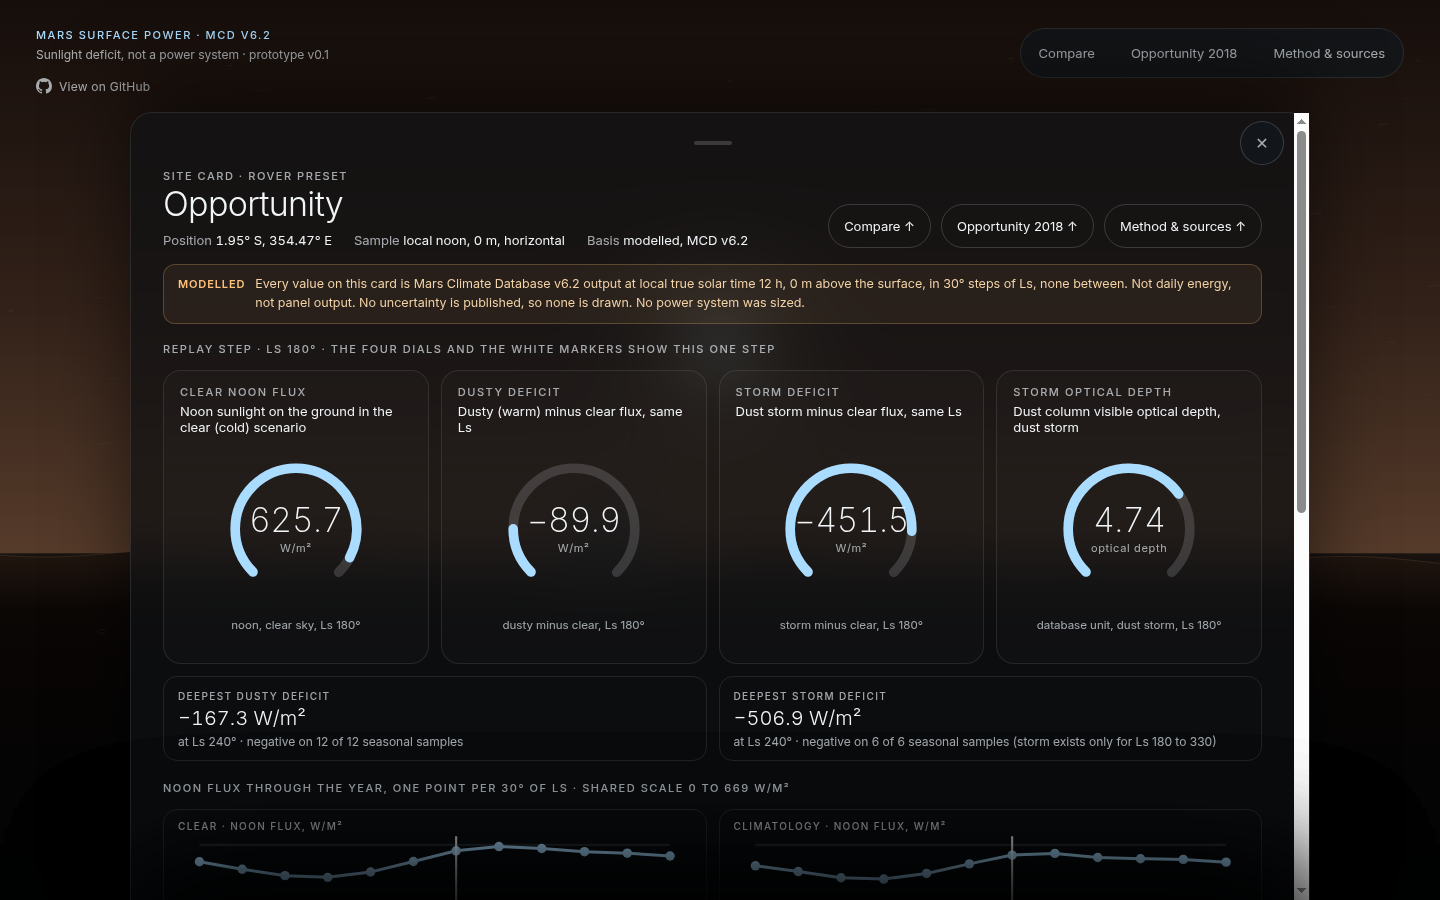
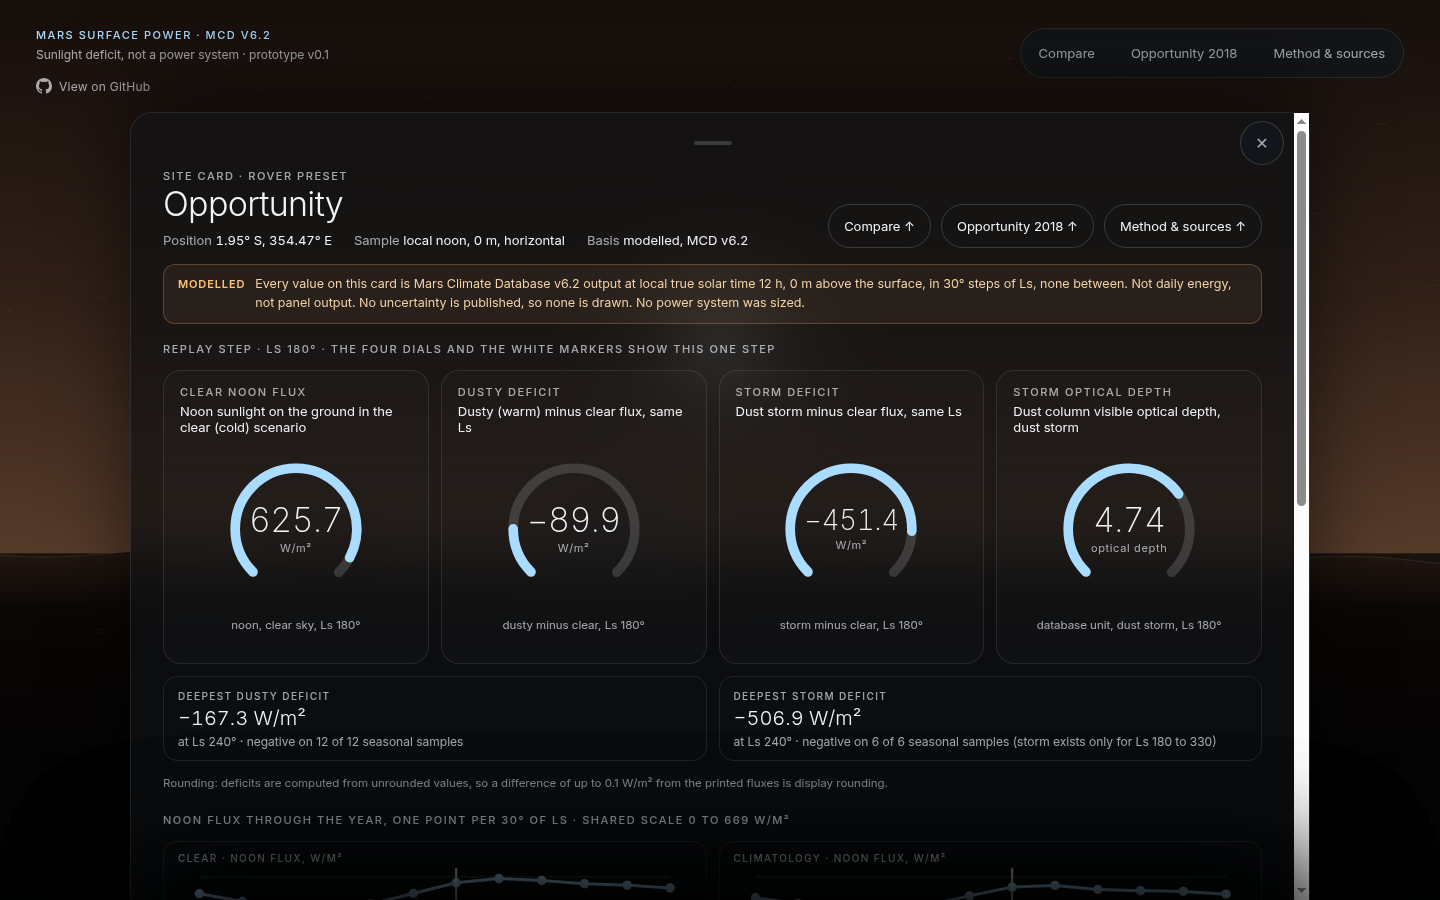
mars-surface-power web: show the stored deficit rounded to one decimal everywhere, with a rounding note
The page had shown each deficit as displayed dust flux minus displayed clear flux, so shown deficits drifted from the frozen stored value (Opportunity Ls 180 storm showed -451.5; stored -451.4248 rounds to -451.4). Every deficit (hero, card dials, deepest-deficit boxes, aria labels, compare ranges, ring fractions and the shared scale) now uses the stored value rounded once to one decimal; fluxes stay at one decimal from stored values. A short note in the card, compare and method layers explains that deficits are computed from unrounded values, so up to 0.1 W/m2 from the printed fluxes is display rounding. Dial numerals of six or more characters step down so -451.4 clears the ring stroke at every width.

Tests: test_values and test_behaviour compare all 108 displayed deficits with data/mars.json rounded by the same rule, fail if the page recomputes from displayed fluxes (altered stored deficits must show), check the note, and check dial text clearance at eight widths. Screenshots regenerated.

diff --git a/mars-surface-power/web/index.html b/mars-surface-power/web/index.html
@@ -137,6 +137,8 @@ table.sc tbody tr{cursor:default}
 @media (max-width:900px) and (max-height:700px){.snote{display:none}.dock{gap:0 10px}.brand .small{display:none}}
 @media (min-width:901px) and (max-height:860px){.mapcap{display:none}}
 @media (min-width:901px) and (max-height:760px){.live .n{font-size:28px}.live{gap:6px 14px}}
+/* values of six or more characters (e.g. \u2212451.4) step down so they keep clear of the ring stroke */
+.ring .val .n.long{font-size:28px}
 </style>
 </head>
 <body>
@@ -244,7 +246,7 @@ table.sc tbody tr{cursor:default}
     <div class="box"><p>The deficit is the stored dusty flux minus the stored cold (clear, low-dust) flux at the same site and Ls: the dusty (warm) scenario and the dust-storm scenario against the cold baseline. Climatology is stored and shown but is not turned into a deficit. The dust storm is the interface's "average" scenario, not a specific year, and exists only for Ls 180 to 330; earlier requests are rejected by the interface, so those samples are absent, never zero. How long a deficit lasts is a count of seasonal samples, not days. No uncertainty is published, so none is drawn. The project says: <b id="nopower"></b></p></div>
 
     <h3>The method text from the project</h3>
-    <div class="box"><p class="mt" id="method-text"></p></div>
+    <div class="box"><p class="mt" id="method-text"></p><p class="small" id="round-note" data-round-note style="margin-top:10px"></p></div>
     <details><summary>The project's own sentences (<span id="nsent">0</span>)</summary><div id="sentences"></div></details>
     <details><summary>Data files (<span id="nman">0</span>, data/MANIFEST.tsv)</summary><ul class="cites" id="manifest"></ul></details>
 
@@ -292,12 +294,13 @@ var DEF={};(D.deficits||[]).forEach(function(d){DEF[d.site+'|'+d.scenario+'|'+d.
 function smp(sid,scn,i){var s=SER[sid]&&SER[sid][scn];return s&&s[i]?s[i]:null}
 function flux(sid,scn,i){var r=smp(sid,scn,i);return r&&ok(r.flux)?r.flux:null}
 function dod(sid,scn,i){var r=smp(sid,scn,i);return r&&ok(r.dod)?r.dod:null}
-/* Display rule: fluxes are shown to one decimal. A shown deficit is the shown dust flux minus the shown clear flux (whole tenths), so the arithmetic on screen is always exact; it is within 0.1 W/m2 of the stored subtraction. */
-function tenth(v){return Math.round(v*10)}
-function deficit(sid,scn,i){var d=DEF[sid+'|'+scn+'|'+LSV[i]],a=flux(sid,scn,i),c=flux(sid,'cold',i);return d&&ok(d.value)&&a!=null&&c!=null?(tenth(a)-tenth(c))/10:null}
+/* Display rule: the STORED deficit (unrounded dusty minus cold, from the frozen export) is rounded once to one decimal with the same rule as fnum, and every place uses that value. Never recompute from the displayed fluxes: a printed deficit can differ by up to 0.1 W/m2 from printed flux minus printed flux. */
+var ROUND_NOTE='Rounding: deficits are computed from unrounded values, so a difference of up to 0.1 W/m\u00b2 from the printed fluxes is display rounding.';
+function r1(v){var t=Math.abs(v).toFixed(1);return (v<0?-1:1)*+t}
+function deficit(sid,scn,i){var d=DEF[sid+'|'+scn+'|'+LSV[i]];return d&&ok(d.value)?r1(d.value):null}
 var FMAX=1,DMAX=1,DFMAX=1;
 Object.keys(SER).forEach(function(k){Object.keys(SER[k]).forEach(function(s){SER[k][s].forEach(function(r){if(ok(r.flux))FMAX=Math.max(FMAX,r.flux);if(ok(r.dod))DMAX=Math.max(DMAX,r.dod)})})});
-(D.deficits||[]).forEach(function(d){if(ok(d.value))DFMAX=Math.max(DFMAX,Math.abs(d.value))});
+(D.deficits||[]).forEach(function(d){if(ok(d.value))DFMAX=Math.max(DFMAX,Math.abs(r1(d.value)))});
 
 /* ---------------- state: one snapped season step feeds every readout, the scene and the rings ---------------- */
 var S={site:'curiosity',scn:'warm',step:0,base:0};
@@ -466,6 +469,7 @@ function renderCard(sid){
   h+='<div class="extras" style="grid-template-columns:repeat(2,1fr)">'
    +'<div class="extra"><span class="label">Deepest dusty deficit</span><b>'+(w.deep?fnum(w.deep.v,1)+' W/m\u00b2':NA)+'</b><span>'+(w.deep?'at Ls '+w.deep.ls+'\u00b0 \u00b7 negative on '+w.below+' of '+w.n+' seasonal samples':'')+'</span></div>'
    +'<div class="extra"><span class="label">Deepest storm deficit</span><b>'+(m.deep?fnum(m.deep.v,1)+' W/m\u00b2':NA)+'</b><span>'+(m.deep?'at Ls '+m.deep.ls+'\u00b0 \u00b7 negative on '+m.below+' of '+m.n+' seasonal samples (storm exists only for Ls 180 to 330)':'')+'</span></div></div>';
+  h+='<p class="disclaim" data-round-note>'+ROUND_NOTE+'</p>';
   h+='<div class="label" style="margin-top:20px">Noon flux through the year, one point per 30\u00b0 of Ls \u00b7 shared scale 0 to '+plain(fnum(FMAX))+' W/m\u00b2</div><div class="sparks">'+['cold','climatology','warm','storm'].map(function(k){return sparkHTML(k,sid)}).join('')+'</div>';
   h+='<p class="disclaim">The line joins the stored samples; there is no data between them. The storm has no samples before Ls 180. The white marker is the replay step.</p>';
   h+='<div class="box" style="margin-top:16px"><div class="label">Source files at this season</div><ul class="files" id="card-files"></ul><p class="small" style="margin-top:8px">Coordinate: '+esc(s.source)+' \u00b7 <code class="h">'+esc(s.source_file)+'</code> \u00b7 sha256 <code class="h">'+esc(s.source_sha256)+'</code></p></div>';
@@ -477,7 +481,7 @@ function renderCard(sid){
   $$('#card [data-open]').forEach(function(b){b.onclick=function(){openLayer(b.dataset.open)}});
 }
 function setDial(key,html,unit,frac,defTxt,aria){var d=$('#card .dial[data-d="'+key+'"]');if(!d)return;var n=$('.n',d),u=$('.u',d),f=$('.fill',d);
-  if(n._h!==html){n._h=html;n.innerHTML=html}u.textContent=frac==null?'':unit;f.setAttribute('stroke-dasharray',(Math.max(0,Math.min(1,frac||0))*179.07).toFixed(2)+' 300');f.style.display=frac==null?'none':'';
+  if(n._h!==html){n._h=html;n.innerHTML=html}n.classList.toggle('long',plain(html).length>=6);u.textContent=frac==null?'':unit;f.setAttribute('stroke-dasharray',(Math.max(0,Math.min(1,frac||0))*179.07).toFixed(2)+' 300');f.style.display=frac==null?'none':'';
   $('.def',d).textContent=defTxt||'';d.dataset.value=plain(html);d.setAttribute('role','group');d.setAttribute('aria-label',aria)}
 function setT2(id,txt){var e=$('#'+id);if(e&&e._h!==txt){e._h=txt;e.textContent=txt}}
 function cardRefresh(i){
@@ -533,7 +537,7 @@ function fillCompare(){
      +rb('Storm minus clear',storm,-axD,0,'W/m\u00b2',1,true,function(v){return neg(v)+' (Ls 180 to 330 only)'})
      +rb('Storm optical depth (database unit, own axis)',tau,0,Math.ceil(DMAX),'',2,false,function(v){return v.length+' samples'})
      +'<div style="margin-top:14px"><button class="btn" style="min-height:44px" data-site-open="'+esc(s.id)+'">Open site card</button></div></div>'});
-  $('#cmp').innerHTML=h;$$('#cmp [data-site-open]').forEach(function(b){b.onclick=function(){openSite(b.dataset.siteOpen)}});
+  h+='<p class="disclaim" data-round-note>'+ROUND_NOTE+'</p>';$('#cmp').innerHTML=h;$$('#cmp [data-site-open]').forEach(function(b){b.onclick=function(){openSite(b.dataset.siteOpen)}});
 }
 
 /* ---------------- Opportunity 2018: measured opacity and modelled optical depth, two separate axes ---------------- */
@@ -568,7 +572,7 @@ function fillOpp(){
 /* ---------------- method and sources ---------------- */
 function td(x){return '<td class="l">'+x+'</td>'}
 function fillMethod(){
-  $('#nopower').textContent=D.no_power||'';
+  $('#nopower').textContent=D.no_power||'';var rn=$('#round-note');if(rn)rn.textContent=ROUND_NOTE;
   $('#method-text').textContent=(D.method||'n/a').split('\n').filter(function(l){return !/^Plotted/.test(l)}).map(function(l){return /^Sites:/.test(l)&&SITES.length?'Sites: '+SITES.map(function(s){return s.name+' ('+latS(s.lat)+', '+lonS(s.lon)+')'}).join('; ')+'.':l}).join('\n')+'\n(The "Plotted" traces repeat every value with its source files; they are in data/mars.json.)';
   $('#tb-scn').innerHTML=SC.map(function(s){var a=s.ls_available||[];return '<tr>'+td(esc(s.label))+td(esc(s.interface_label))+td(esc(s.dust))+td(a.length+(a.length?' (Ls '+a[0]+' to '+a[a.length-1]+')':''))+'</tr>'}).join('')||'<tr><td class="l" colspan="4">'+NA+'</td></tr>';
   $('#tb-sites').innerHTML=SITES.map(function(s){return '<tr>'+td(esc(s.name))+td(latS(s.lat)+', '+lonS(s.lon))+td(esc(s.source))+td('<code class="h">'+esc(s.source_file)+'</code>')+'</tr>'}).join('')||'<tr><td class="l" colspan="4">'+NA+'</td></tr>';

diff --git a/mars-surface-power/web/test_values.js b/mars-surface-power/web/test_values.js
@@ -7,7 +7,8 @@ let n=0; const ok=(c,m)=>{n++;assert.ok(c,m);console.log('ok',m)};
 const MIN='\u2212', fmt=(v,d=0)=>(v<0&&+Math.abs(v).toFixed(d)!==0?MIN:'')+Math.abs(v).toFixed(d).replace(/\B(?=(\d{3})+(?!\d))/g,',');
 const def=(s,k,ls)=>M.deficits.find(d=>d.site===s&&d.scenario===k&&d.ls===ls);
 // display rule: fluxes to one decimal; shown deficit = shown dust flux minus shown clear flux (whole tenths)
-const t10=v=>Math.round(v*10), dsp=d=>{const s=M.series[d.site];return (t10(s[d.scenario].find(r=>r.ls===d.ls).flux)-t10(s.cold.find(r=>r.ls===d.ls).flux))/10};
+// displayed deficit = the STORED deficit (data/mars.json) rounded to 1 decimal with the same rule as fmt (toFixed on the magnitude); never flux minus flux
+const dsp=d=>(d.value<0?-1:1)*+Math.abs(d.value).toFixed(1), NOTE='Rounding: deficits are computed from unrounded values, so a difference of up to 0.1 W/m\u00b2 from the printed fluxes is display rounding.';
 async function fresh(b,url,ms){await b.goto('about:blank',100);await b.goto(url,ms||700);}
 (async()=>{
   // ---- the project's own numbers, from mars.json
@@ -48,6 +49,7 @@ async function fresh(b,url,ms){await b.goto('about:blank',100);await b.goto(url,
     ok(g.files.filter(f=>/^mcd62_/.test(f)).join()===wantFiles.join(),'  source files at this step: '+wantFiles.join(', '));
     ok(g.sv.length===4&&g.sv.every((t,k)=>(k===3&&!st)?/^n\/a/.test(t):t.startsWith(fmt(S[['cold','climatology','warm','storm'][k]][i].flux,1))),'  sparkline read-outs match the stored flux: '+g.sv.join(' | '));
   }
+  ok((await b.ev(`document.querySelector('#card [data-round-note]').textContent`))===NOTE,'site card carries the rounding note');
   // ---- compare layer: ranges equal the stored values, fixed order, nothing ranked
   await fresh(b,FILE+'#compare?paused',800);
   const cmp=await b.ev(`[...document.querySelectorAll('#cmp .box')].map(x=>({id:x.dataset.site,t:x.querySelector('h4').textContent,rng:[...x.querySelectorAll('.rng')].map(e=>e.textContent)}))`);
@@ -71,6 +73,7 @@ async function fresh(b,url,ms){await b.goto('about:blank',100);await b.goto(url,
   await fresh(b,FILE+'#method?paused',800);
   const mt=await b.ev(`document.querySelector('#method').innerText`);
   for(const s of ['No power system was sized.','climatology average solar scenario','cold scenario (low dust, minimum solar)','warm scenario (dusty, maximum solar)','dust storm average solar scenario','exploration-zone candidates','not a specific year','not days','No conversion factor was applied.','No uncertainty is published','not daily energy','Storm never faked before Ls 180','No ranking of sites','No combined score','No claim of safe or unsafe','Modelled','Illustrative','Measured'])ok(mt.toLowerCase().includes(s.toLowerCase()),'method layer states: '+s);
+  ok(mt.includes(NOTE),'method layer carries the rounding note');
   ok(await b.ev(`document.querySelectorAll('#manifest li').length`)===261&&await b.ev(`document.querySelector('#cites').children.length>=5`)&&await b.ev(`!!document.querySelector('#method a[href="https://github.com/sighmon/space"]')`),'method layer lists 261 manifest entries, citations and the GitHub link');
   // ---- exhaustive: all 108 deficits, every place a flux and a deficit are shown (hero read-outs, card dials, sparkline read-outs)
   const num=t=>+String(t).replace(/\u2212/g,'-').replace(/,/g,'').match(/^-?[0-9.]+/)[0];
@@ -87,13 +90,15 @@ async function fresh(b,url,ms){await b.goto('about:blank',100);await b.goto(url,
       const d=def(site,scn,i*30); if(!d)continue;
       const sc=scn==='warm'?card.warm:card.storm, spk=num(card.sv[scn==='warm'?2:3]);
       const cold=num(card.cold), hf=num(hero[scn].f), hd=num(hero[scn].df), hc=num(hero.cold.f);
-      const e1=Math.abs((spk-cold)-num(sc)), e2=Math.abs((hf-hc)-hd);
-      worst=Math.max(worst,Math.abs(num(sc)-d.value),Math.abs(hd-d.value));
-      ok(e1<1e-9&&e2<1e-9&&num(sc)===hd&&Math.abs(num(sc)-d.value)<0.1+1e-9&&(Math.abs(d.value)<0.1||Math.sign(num(sc))===Math.sign(d.value)),`${site}/${scn}/Ls ${i*30}: shown ${spk} - ${cold} = ${sc} (hero ${hf} - ${hc} = ${hd}); stored ${d.value.toFixed(3)}`);
+      const e1=Math.abs((spk-cold)-num(sc)), e2=Math.abs((hf-hc)-hd), want=dsp(d);
+      worst=Math.max(worst,e1,e2);
+      ok(num(sc)===want&&hd===want&&fmt(want,1)===sc&&(want===0||Math.sign(num(sc))===Math.sign(d.value))&&e1<0.1+1e-9&&e2<0.1+1e-9,`${site}/${scn}/Ls ${i*30}: shown deficit ${sc} (hero ${hd}) = stored ${d.value} rounded to ${fmt(want,1)}; printed fluxes ${spk} - ${cold} differ by ${e1.toFixed(1)}`);
       exh++;
     }
   }
-  ok(exh===108,'exhaustive check covered all 108 samples; largest gap to the stored deficit '+worst.toFixed(3)+' W/m2 (< 0.1)');
+  // known case from review: Opportunity Ls 180 storm stored -451.4248 shows -451.4, not -451.5
+  {const o=def('opportunity','storm',180); ok(Math.abs(o.value+451.4248)<1e-3&&fmt(dsp(o),1)===MIN+'451.4','Opportunity Ls 180 storm: stored '+o.value+' shows '+fmt(dsp(o),1)+' (not '+MIN+'451.5)');}
+  ok(exh===108,'exhaustive check covered all 108 samples; largest gap between the shown deficit and shown flux minus shown flux '+worst.toFixed(1)+' W/m2 (display rounding, <= 0.1)');
   // ---- coordinates: one formatter, N/S and E/W letters, never a signed number plus a letter
   const cf=(v,p,n)=>String(+Math.abs(v).toFixed(3))+'\u00b0 '+(v<0?n:p);
   await fresh(b,FILE+'#method?paused',800);
@@ -101,5 +106,14 @@ async function fresh(b,url,ms){await b.goto('about:blank',100);await b.goto(url,
   for(const x of M.sites){const w=cf(x.lat,'N','S')+', '+cf(x.lon,'E','W');
     ok(mt2.t.includes(x.name+' ('+w+')')&&mt2.rows.includes(w),`${x.name}: method note and table both say ${w}`);}
   ok(mt2.t.includes('Mesopotamia (35.352\u00b0 S, 94.02\u00b0 E)')&&!/-\d[\d.]* ?\u00b0? ?[NSEW]\b/.test(mt2.t)&&!/-\d/.test(mt2.rows.join()),'southern sites read "35.352\u00b0 S", never "-35.352 N"');
+  // ---- the widest deficit text (Opportunity Ls 180 storm, -451.4) keeps clear of the dial ring stroke at every width
+  for(const w of [320,360,390,414,600,768,1024,1440]){
+    await b.viewport(w,w<500?740:900);
+    await fresh(b,FILE+'#site/opportunity?ls=180&scenario=storm&paused',700);
+    const r=await b.ev(`[...document.querySelectorAll('#card .dial')].map(d=>{const g=d.querySelector('.ring').getBoundingClientRect(),n=d.querySelector('.n').getBoundingClientRect(),u=d.querySelector('.u').getBoundingClientRect(),cx=g.left+g.width/2,cy=g.top+g.height/2,inner=g.width*0.35;
+      const far=Math.max(...[n,u].flatMap(q=>[[q.left,q.top],[q.right,q.top],[q.left,q.bottom],[q.right,q.bottom]]).map(p=>Math.hypot(p[0]-cx,p[1]-cy)));return {k:d.dataset.d,v:d.dataset.value,far:far/inner,half:Math.max(cx-n.left,n.right-cx)/inner}})`);
+    ok(r.every(x=>x.far<=1.0&&x.half<=0.9),`${w}px: dial text stays inside the ring stroke (${r.map(x=>x.v+' '+x.half.toFixed(2)+'/'+x.far.toFixed(2)).join(', ')})`);
+  }
+  await b.viewport(1440,900);
   ok(errs.length===0,'no console errors'); b.close(); console.log('values ok',n,'checks'); process.exit(0);
 })().catch(e=>{console.error('FAIL',e.message);process.exit(1)});

diff --git a/mars-surface-power/web/test_behaviour.js b/mars-surface-power/web/test_behaviour.js
@@ -146,6 +146,36 @@ const key=async(b,k,code)=>{await b.send('Input.dispatchKeyEvent',{type:'keyDown
   await fresh(b,FILE+'?ls=240&scenario=storm&site=mesopotamia&paused',600);
   ok(await b.ev(`__mars.step`)===8&&await b.ev(`__mars.state.scn`)==='storm'&&await b.ev(`__mars.state.site`)==='mesopotamia'&&await b.ev(`document.querySelector('#play').getAttribute('aria-label')`)==='Play replay','?ls=240&scenario=storm&site=mesopotamia&paused in the query string works');
   await fresh(b,FILE+'#?ls=100&paused',600); ok(await b.ev(`__mars.step`)===3,'?ls=100 snaps to the nearest 30 degree step (Ls 90)');
+  // ---- deficits shown are the STORED deficits rounded to 1 decimal (same rule as the page), for all 108 samples
+  const RNOTE='Rounding: deficits are computed from unrounded values, so a difference of up to 0.1 W/m\u00b2 from the printed fluxes is display rounding.';
+  const rd1=v=>(v<0?-1:1)*+Math.abs(v).toFixed(1), ff1=v=>(v<0&&+Math.abs(v).toFixed(1)!==0?'\u2212':'')+Math.abs(v).toFixed(1);
+  let seen108=0;
+  for(const site of M.sites.map(x=>x.id)){
+    await fresh(b,FILE+`#?site=${site}&scenario=warm&ls=0&paused`,500);
+    for(let i=0;i<12;i++){
+      await b.ev(`(()=>{const s=document.querySelector('#scrub');s.value=${i};s.dispatchEvent(new Event('input',{bubbles:true}))})()`);
+      for(const scn of ['warm','storm']){
+        await b.ev(`(()=>{const e=document.querySelector('#scn [data-s="${scn}"]');if(e&&!e.disabled)e.click()})()`); await sleep(40);
+        const d=M.deficits.find(x=>x.site===site&&x.scenario===scn&&x.ls===i*30); if(!d)continue;
+        const g=await b.ev(`document.querySelector('#r-def').textContent`);
+        ok(g===ff1(rd1(d.value)),`hero ${site}/${scn}/Ls ${i*30}: shows ${g}, stored ${d.value} rounds to ${ff1(rd1(d.value))}`); seen108++;
+      }
+    }
+  }
+  ok(seen108===108,'hero deficit read-out checked against the stored value for all 108 samples');
+  // rounding note present in the card, compare and method layers
+  await fresh(b,FILE+'#site/opportunity?ls=180&scenario=storm&paused',800);
+  const cardTxt=await b.ev(`document.querySelector('#card').innerText`);
+  ok(await b.ev(`document.querySelector('#card [data-round-note]').textContent`)===RNOTE&&cardTxt.includes(RNOTE),'site card shows the rounding note');
+  const sd=await b.ev(`(()=>{const d=document.querySelector('#card .dial[data-d="storm"]');return {v:d.dataset.value,a:d.getAttribute('aria-label')}})()`);
+  ok(sd.v==='\u2212451.4'&&sd.a.includes('\u2212451.4')&&!/451\.5/.test(cardTxt+sd.a),'Opportunity Ls 180 storm card shows \u2212451.4 (stored \u2212451.4248), never \u2212451.5, in the dial and its aria label: '+sd.a);
+  await fresh(b,FILE+'#compare?paused',700); ok((await b.ev(`document.querySelector('#cmp [data-round-note]').textContent`))===RNOTE,'compare layer shows the rounding note');
+  await fresh(b,FILE+'#method?paused',700); ok((await b.ev(`document.querySelector('#method').innerText`)).includes(RNOTE),'method layer shows the rounding note');
+  // the page must not recompute: change every stored deficit to an arbitrary value, keep the fluxes; the page must show the changed stored values
+  await b.send('Page.addScriptToEvaluateOnNewDocument',{source:`(()=>{let v;Object.defineProperty(window,'MARS',{configurable:true,get(){return v},set(x){for(const d of x.deficits)d.value=-(100+d.ls/10+0.04)-(d.scenario==='storm'?0.4:0);v=x}})})()`});
+  await fresh(b,FILE+'#site/curiosity?ls=240&scenario=warm&paused',800);
+  const tam=await b.ev(`({hero:document.querySelector('#r-def').textContent,dial:document.querySelector('#card .dial[data-d="warm"]').dataset.value,st:document.querySelector('#card .dial[data-d="storm"]').dataset.value})`);
+  ok(tam.hero==='\u2212'+(124+0).toFixed(1)&&tam.dial==='\u2212124.0'&&tam.st==='\u2212124.4','page shows the (altered) stored deficits, not a recomputation from displayed fluxes: '+JSON.stringify(tam));
   // ---- never show 0 for missing: null out the data and load
   await b.send('Page.addScriptToEvaluateOnNewDocument',{source:`(()=>{let v;Object.defineProperty(window,'MARS',{configurable:true,get(){return v},set(x){
     for(const s of Object.keys(x.series))for(const k of Object.keys(x.series[s]))for(const r of x.series[s][k]){r.flux=null;r.dod=null;r.file=null;r.sha256=null}

diff --git a/mars-surface-power/web/README.md b/mars-surface-power/web/README.md
@@ -32,7 +32,7 @@ python3 -m power.export_web   # writes web/data/mars.json and web/data/mars.js
 | Element | Status |
 | --- | --- |
 | Noon flux (W/m², incident solar flux on a horizontal surface) and dust column visible optical depth, per site, scenario and Ls (252 saved MCD v6.2 responses: 72 climatology, 72 cold, 72 warm, 36 storm), with the source file and sha256 of each | **Modelled** MCD v6.2 output, exported unchanged. Local true solar time 12 h, 0 m, 30° Ls steps. Not daily energy, not panel output. |
-| Deficit (108 values: 72 dusty minus clear, 36 storm minus clear) | **Modelled**: stored dusty flux minus stored cold flux, from `build_report()`. Not minus climatology; climatology is stored and shown but never turned into a deficit. |
+| Deficit (108 values: 72 dusty minus clear, 36 storm minus clear) | **Modelled**: stored dusty flux minus stored cold flux, from `build_report()`. The page shows the stored deficit rounded once to one decimal (never printed flux minus printed flux), so it can differ by up to 0.1 W/m² from the printed fluxes; the card, compare and method layers say so. Not minus climatology; climatology is stored and shown but never turned into a deficit. |
 | Dust storm | **Modelled**, the interface's *average* dust storm scenario, not a specific year. It exists only for Ls 180 to 330 (6 samples); the interface rejects earlier requests. The page disables it below Ls 180 with an explanation and shows n/a, never a faked storm. |
 | Opportunity 2018 opacity (61 points, sols 5066.54 to 5105.61, Ls 165.6 to 187.9, 0.626 to 2.259) | **Measured**: PDS Pancam atmospheric opacity at 880 nm, product `1tau880_5106_20181207a`. Different unit from the model's optical depth: plotted on its own axis beside the modelled storm optical depth at Ls 180 (4.74) on a separate axis. **No conversion factor was applied.** |
 | Sites (6) | Deuteronilus Mensae, Protonilus Mensae and Mesopotamia are **exploration-zone candidates** from 2015 abstracts (Head et al. 1033; Gallegos and Newsom 1053, 1035), not selected landing sites. Curiosity, Perseverance and Opportunity are the MCD web page's rover presets. |
